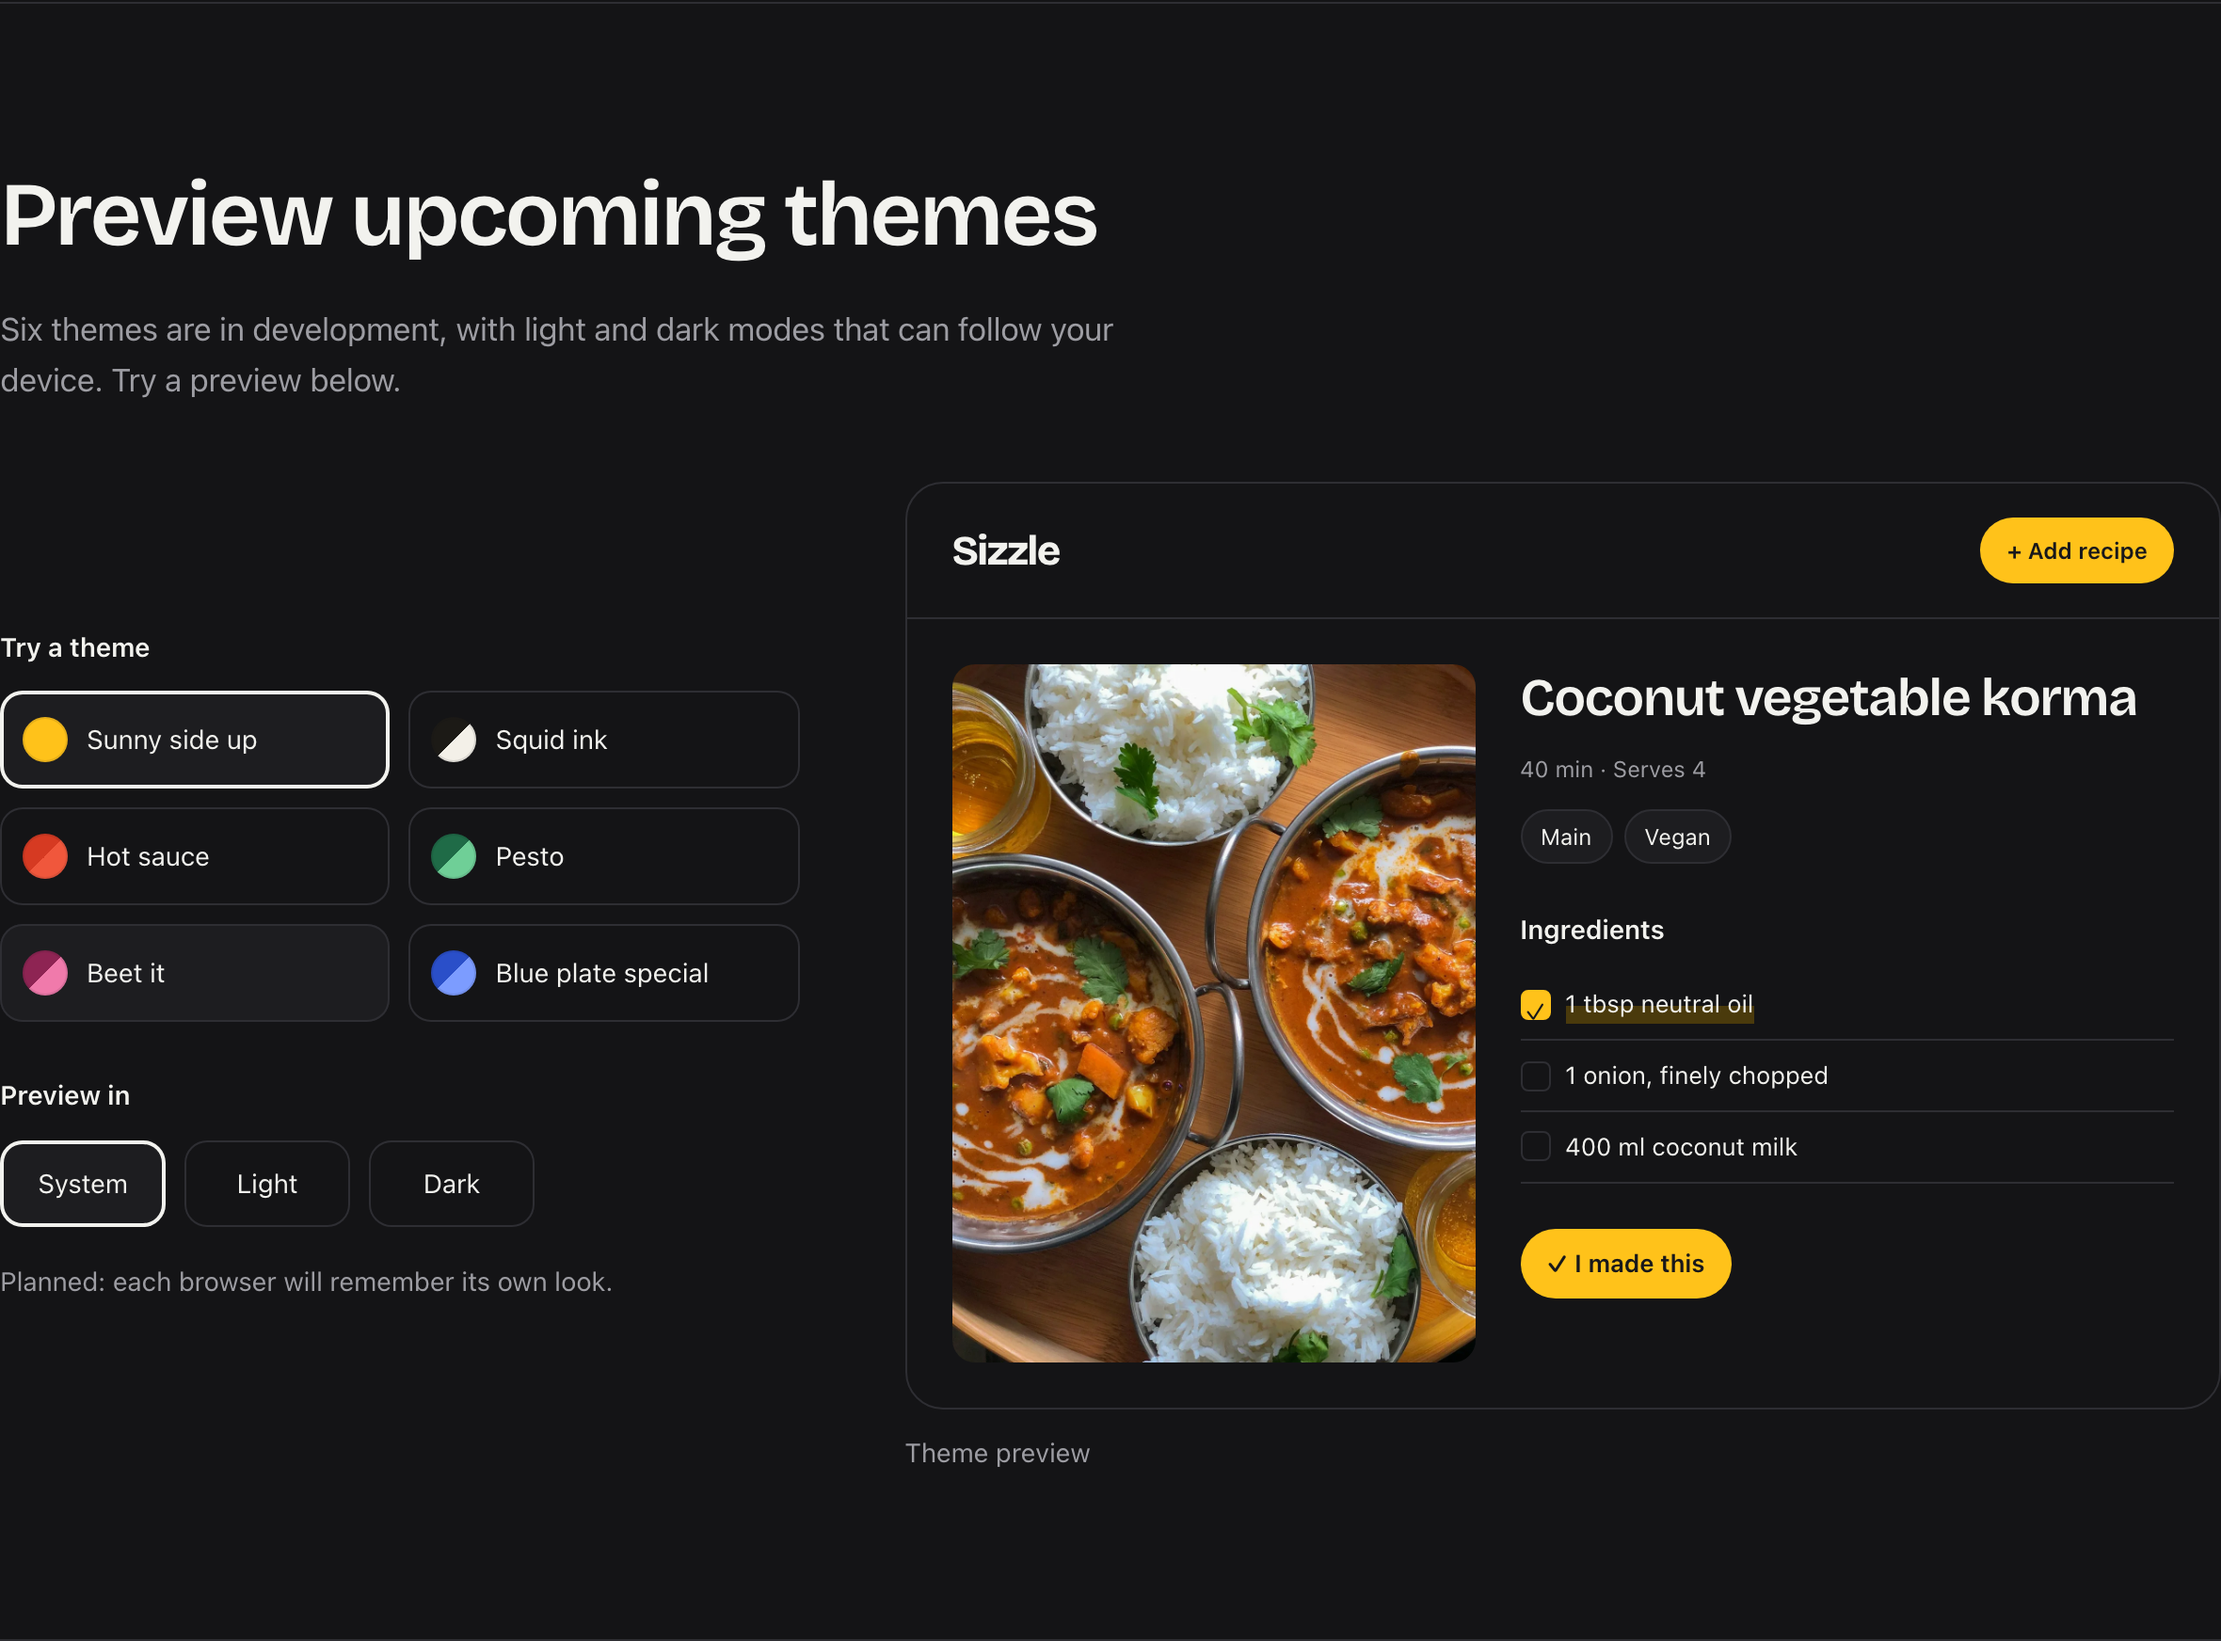
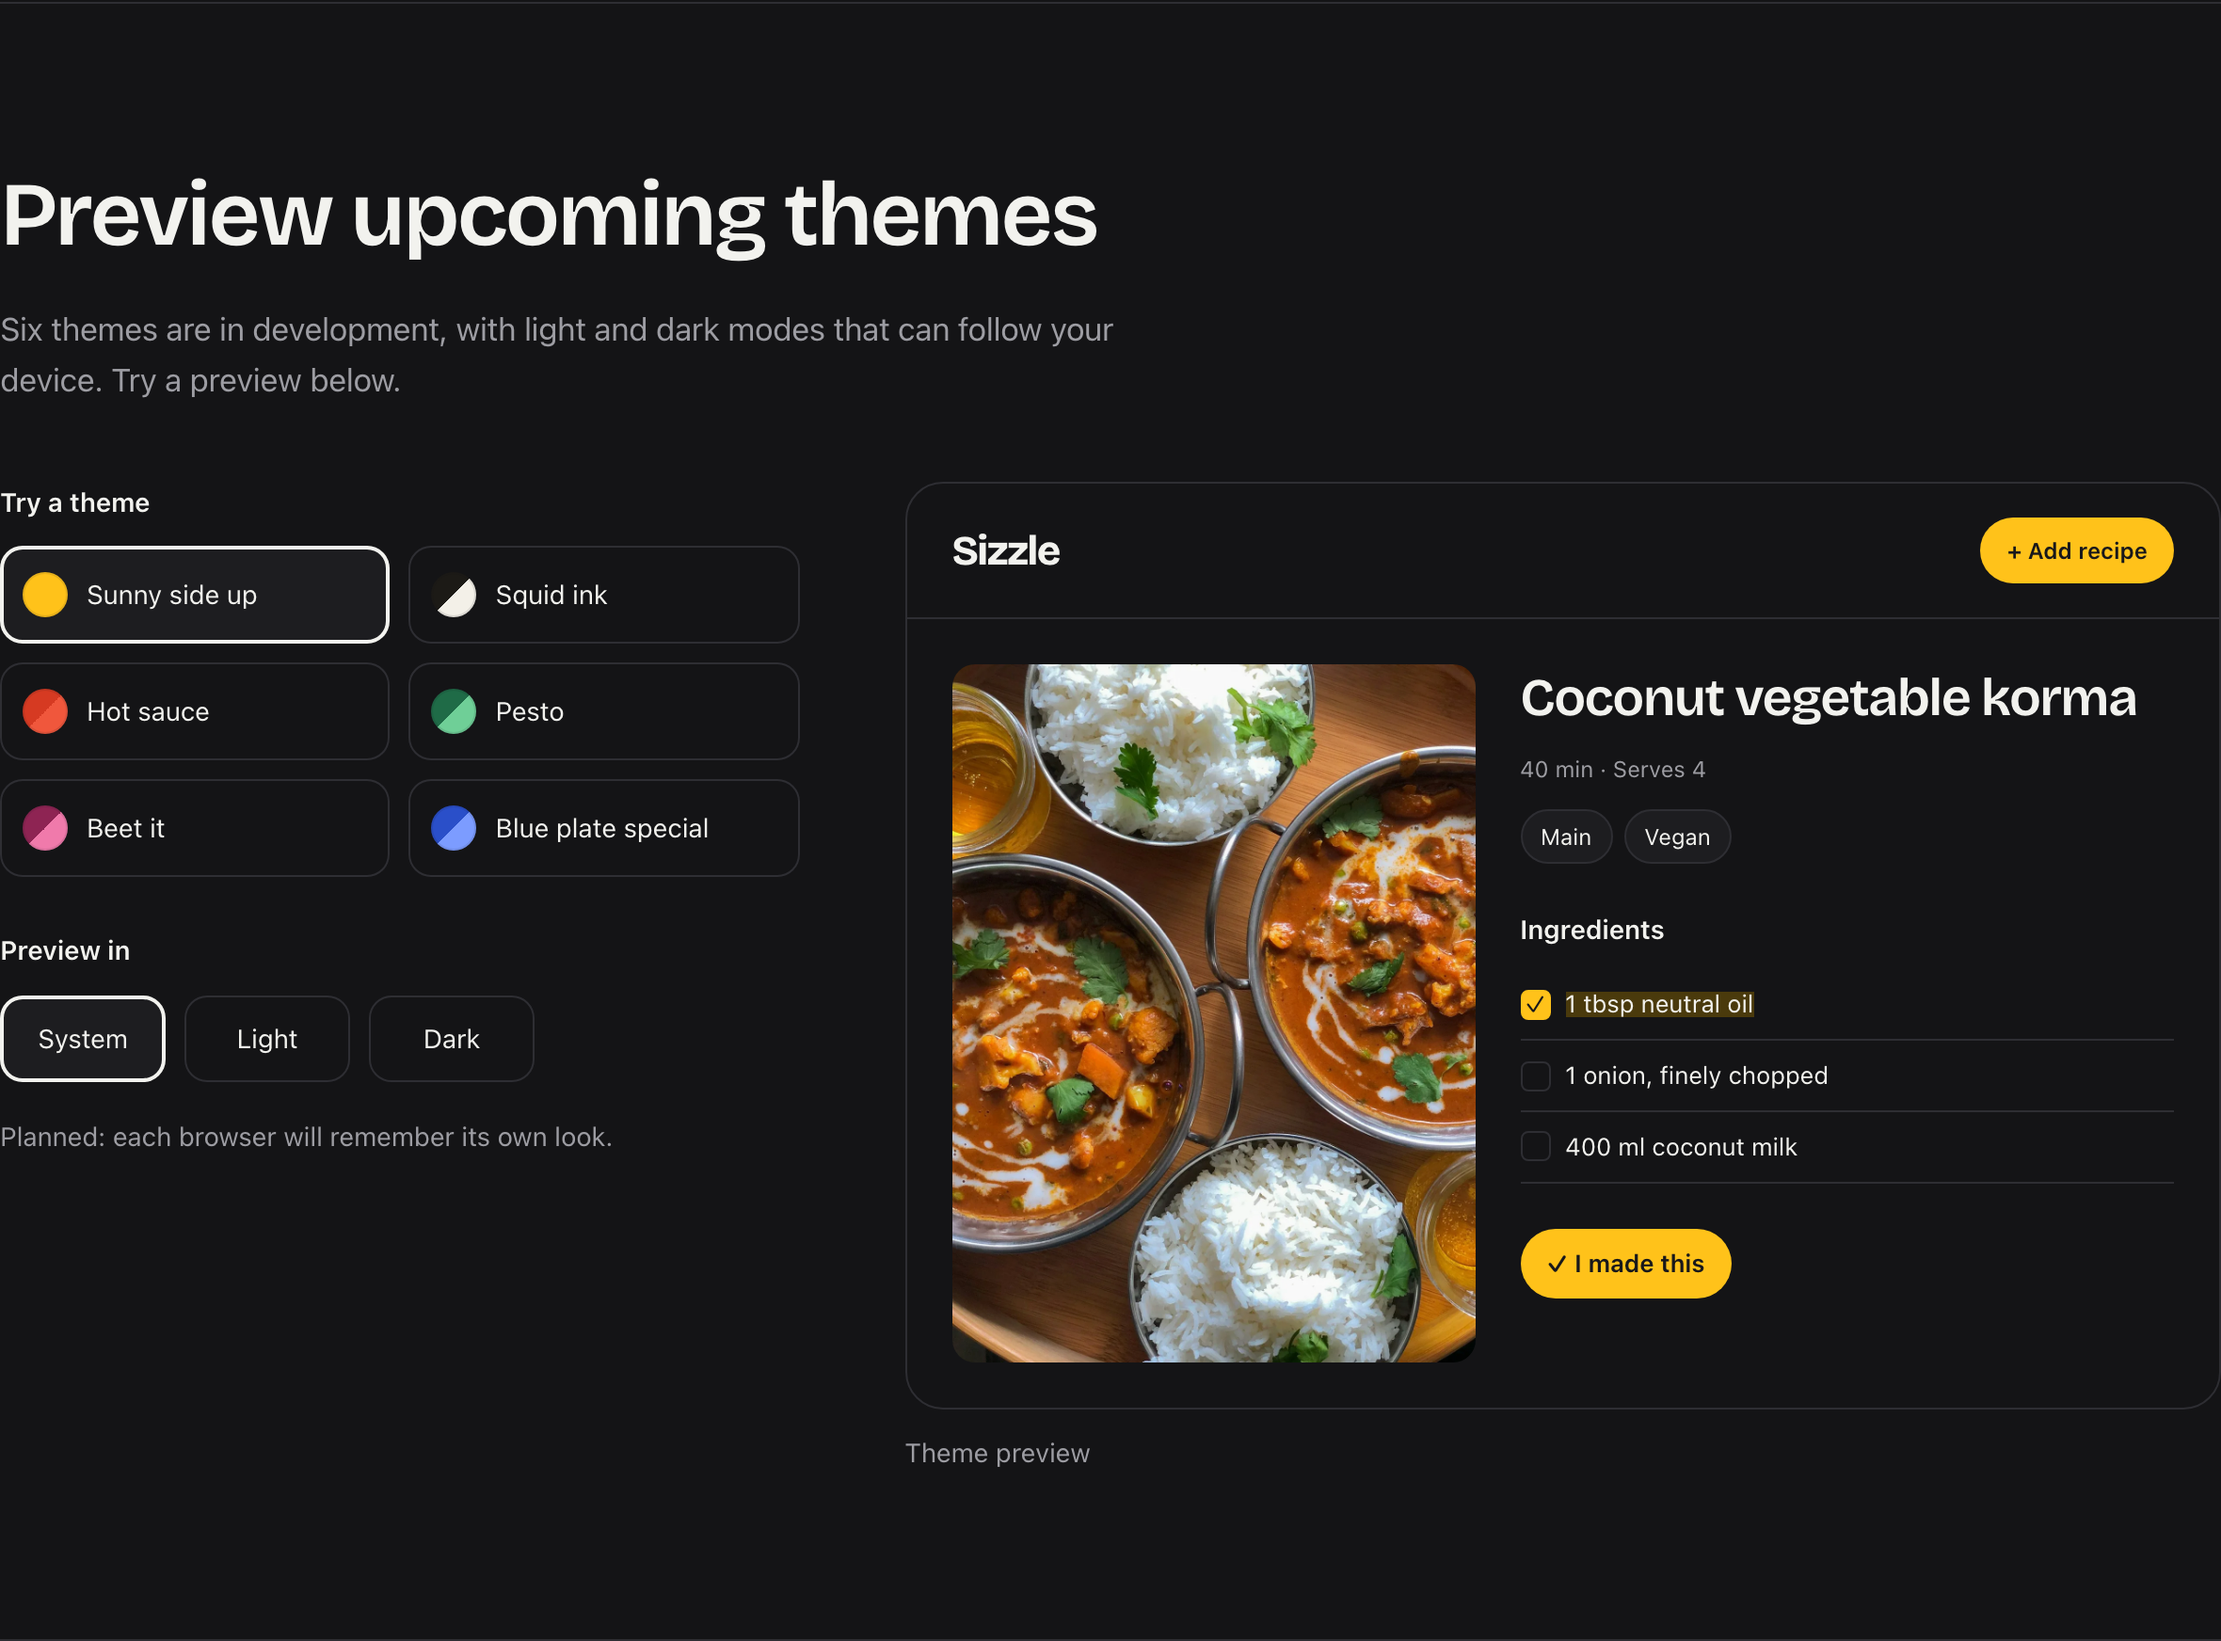
Improve marketing installation flow and highlight alignment

diff --git a/site/index.html b/site/index.html
@@ -71,7 +71,7 @@
             steps and the best photo. The ads, pop-ups and life story stay behind.
           </p>
           <div class="actions">
-            <a class="button primary" href="https://github.com/leemac/sizzle#install">Install Sizzle</a>
+            <a class="button primary" href="#install">Install Sizzle</a>
             <a class="button" href="https://github.com/leemac/sizzle"
               ><svg class="icon" aria-hidden="true"><use href="#github-mark" /></svg>View the source</a
             >
@@ -467,19 +467,19 @@
           <picture>
             <source
               media="(max-width: 480px) and (prefers-color-scheme: dark)"
-              srcset="/images/cooking-390@2x-dark.webp?v=2"
+              srcset="/images/cooking-390@2x-dark.webp?v=3"
               width="358"
               height="713"
             />
-            <source media="(max-width: 480px)" srcset="/images/cooking-390@2x.webp?v=2" width="358" height="713" />
+            <source media="(max-width: 480px)" srcset="/images/cooking-390@2x.webp?v=3" width="358" height="713" />
             <source
               media="(prefers-color-scheme: dark)"
-              srcset="/images/cooking-1280@2x-dark.webp?v=2"
+              srcset="/images/cooking-1280@2x-dark.webp?v=3"
               width="1232"
               height="753"
             />
             <img
-              src="/images/cooking-1280@2x.webp?v=2"
+              src="/images/cooking-1280@2x.webp?v=3"
               alt="A close-up of the real Ingredients and Method sections: neutral oil is checked off and the first step is highlighted in yellow."
               width="1232"
               height="753"
@@ -637,9 +637,9 @@
         </div>
       </section>
 
-      <section class="selfhost">
+      <section class="selfhost" id="install" aria-labelledby="install-heading">
         <div>
-          <h2>Yours, on your own server</h2>
+          <h2 id="install-heading">Yours, on your own server</h2>
           <p>
             Run Sizzle in one Docker container on a home server, NAS or Raspberry Pi. Your recipes and photos stay on
             your server, with no tracking or Sizzle subscription.
@@ -648,9 +648,18 @@
             Sizzle has no login yet. Keep it on your home network, or use Tailscale to reach it away from home. Optional
             Claude extraction uses your own API key and is billed by Anthropic.
           </p>
+          <h3 class="specs-heading">Tech specs</h3>
+          <ul class="tech-specs">
+            <li>One Docker container</li>
+            <li>SQLite · no external database</li>
+            <li>amd64 and arm64</li>
+            <li>No AI required</li>
+          </ul>
         </div>
         <div class="install">
-          <pre><code><span class="dim"># with Docker and Compose installed</span>
+          <div class="code-block">
+            <button class="copy-code" type="button" hidden aria-label="Copy installation commands">Copy</button>
+            <pre tabindex="0"><code><span class="dim"># with Docker and Compose installed</span>
 mkdir sizzle &amp;&amp; cd sizzle
 url=https://github.com/leemac/sizzle/releases/latest/download
 curl -fsSLO $url/docker-compose.yml
@@ -658,6 +667,8 @@ curl -fsSL $url/env.example -o .env
 <span class="dim"># edit .env: set SIZZLE_API_TOKEN</span>
 docker compose up -d
 <span class="dim"># open http://&lt;your-server&gt;:3000</span></code></pre>
+          </div>
+          <p class="copy-status fineprint" role="status"></p>
           <p class="fineprint"><a href="https://github.com/leemac/sizzle#install">Full installation guide</a></p>
         </div>
       </section>

diff --git a/site/styles.css b/site/styles.css
@@ -674,7 +674,7 @@ main h2 {
   display: grid;
   grid-template-columns: minmax(0, 0.85fr) minmax(0, 1.4fr);
   gap: 56px;
-  align-items: center;
+  align-items: start;
   margin-top: 40px;
 }
 
@@ -868,6 +868,7 @@ main h2 {
   height: 16px;
   border: 1px solid var(--preview-hairline);
   border-radius: 4px;
+  line-height: 1;
 }
 
 .preview-checked .preview-check,
@@ -878,7 +879,8 @@ main h2 {
 }
 
 .preview-checked > span:last-child {
-  background: linear-gradient(transparent 55%, var(--preview-mark) 55%);
+  background: linear-gradient(transparent 20%, var(--preview-mark) 20%, var(--preview-mark) 85%, transparent 85%);
+  background-size: 100% 1lh;
 }
 
 .preview-made {
@@ -1053,4 +1055,60 @@ pre {
     font-size: 0.875rem;
     margin: 16px 0 0;
   }
+}
+
+/* Keep installation on the page and respect reduced-motion preferences. */
+@media (prefers-reduced-motion: no-preference) {
+  html {
+    scroll-behavior: smooth;
+  }
+}
+
+#install {
+  scroll-margin-top: 24px;
+}
+.specs-heading {
+  margin-top: 28px;
+  font-size: 1rem;
+}
+.tech-specs {
+  display: flex;
+  flex-wrap: wrap;
+  gap: 8px;
+  list-style: none;
+  padding: 0;
+  margin: 12px 0 0;
+}
+.tech-specs li {
+  border: 1px solid var(--hairline);
+  border-radius: 999px;
+  padding: 5px 12px;
+  font-size: 0.875rem;
+}
+.code-block {
+  position: relative;
+}
+.code-block pre {
+  padding-top: 68px;
+}
+.copy-code {
+  position: absolute;
+  top: 12px;
+  right: 12px;
+  min-height: 44px;
+  padding: 8px 14px;
+  border: 1px solid var(--hairline);
+  border-radius: 10px;
+  background: var(--porcelain);
+  color: var(--ink);
+  font: inherit;
+  font-size: 0.875rem;
+  cursor: pointer;
+}
+.copy-code:hover {
+  border-color: var(--graphite);
+}
+.copy-status {
+  min-height: 1.6em;
+  margin: 8px 0 0;
 }

diff --git a/site/marketing.js b/site/marketing.js
@@ -55,3 +55,24 @@ if (!motion.matches && 'IntersectionObserver' in window) {
     observer.disconnect()
   })
 }
+
+const copyButton = document.querySelector('.copy-code')
+if (copyButton) {
+  copyButton.hidden = false
+  copyButton.addEventListener('click', async () => {
+    const code = document.querySelector('.install code')
+    const status = document.querySelector('.copy-status')
+    try {
+      await navigator.clipboard.writeText(code.textContent)
+      status.textContent = 'Installation commands copied.'
+    } catch {
+      const selection = window.getSelection()
+      const range = document.createRange()
+      range.selectNodeContents(code)
+      selection.removeAllRanges()
+      selection.addRange(range)
+      code.closest('pre').focus()
+      status.textContent = 'Copy unavailable. Commands selected; use your browser’s Copy command.'
+    }
+  })
+}

diff --git a/app/frontend/entrypoints/application.css b/app/frontend/entrypoints/application.css
@@ -260,7 +260,8 @@ a:is(:hover, :focus-visible) .sizzle-logo__flame {
 
 /* Highlighter mark used for checked ingredients and the active step. */
 @utility highlight {
-  background-image: linear-gradient(transparent 55%, var(--color-mark) 55%);
+  background-image: linear-gradient(transparent 20%, var(--color-mark) 20%, var(--color-mark) 85%, transparent 85%);
+  background-size: 100% 1lh;
 }
 
 /* The photo supplies its own colors; the mask turns it into a quiet wash. */

diff --git a/.agents/skills/sizzle-marketing/references/screenshots.md b/.agents/skills/sizzle-marketing/references/screenshots.md
@@ -2,7 +2,7 @@
 
 Run from a Sizzle checkout with its Ruby and Node dependencies, Playwright Chromium, and `cwebp` installed. Use the bundled, licensed seed photos; do not import third-party recipes or expose private cookbook contents for a marketing capture.
 
-The light/dark pairs in `site/images` were captured from app revision `450836948943daa7ae9f1e6f5a60d313f6d3151f`, which follows the system appearance. Later app revisions force dark mode. To reproduce these pairs, serve that app revision in a separate disposable checkout and run the current capture helpers against it. Both helpers check the rendered palette before saving; do not override app CSS or label a dark capture as light. The marketing page's system preference is independent of the app's current default.
+The light/dark pairs in `site/images` were captured from app revision `450836948943daa7ae9f1e6f5a60d313f6d3151f`, which follows the system appearance. Later app revisions force dark mode. To reproduce these pairs, serve that app revision in a separate disposable checkout and run the current capture helpers against it. The cooking captures also include the current `highlight` utility fix: a mark from 20% to 85% of each line box, repeated at `1lh`, using that revision’s `--color-yolk-soft` role. Apply that source change when reproducing the cooking captures. Both helpers check the rendered palette before saving; do not override app CSS or label a dark capture as light. The marketing page's system preference is independent of the app's current default.
 
 Create a separate database instead of altering the maintainer's cookbook:
 
